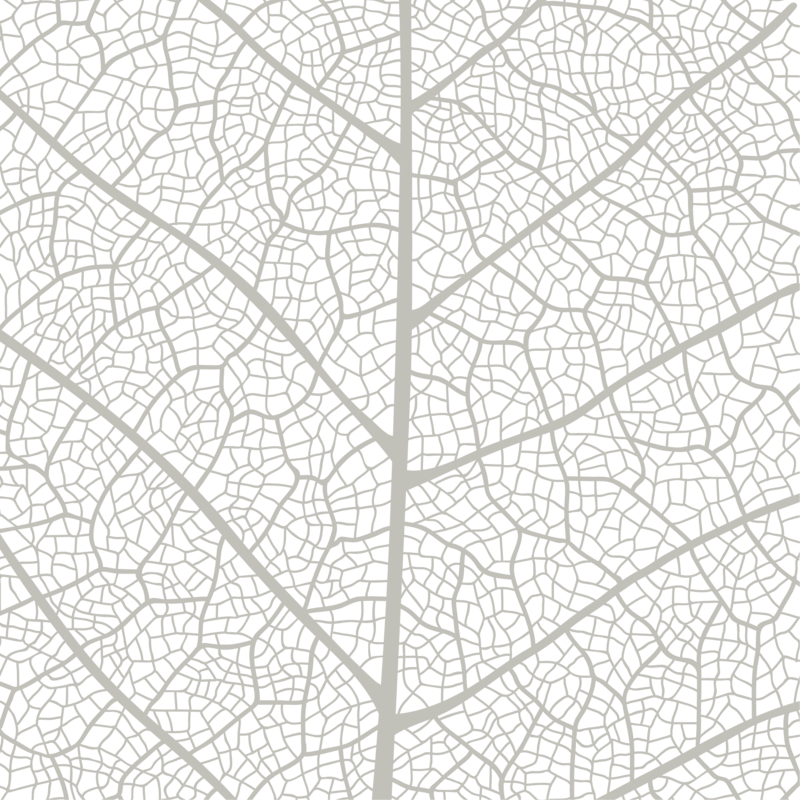
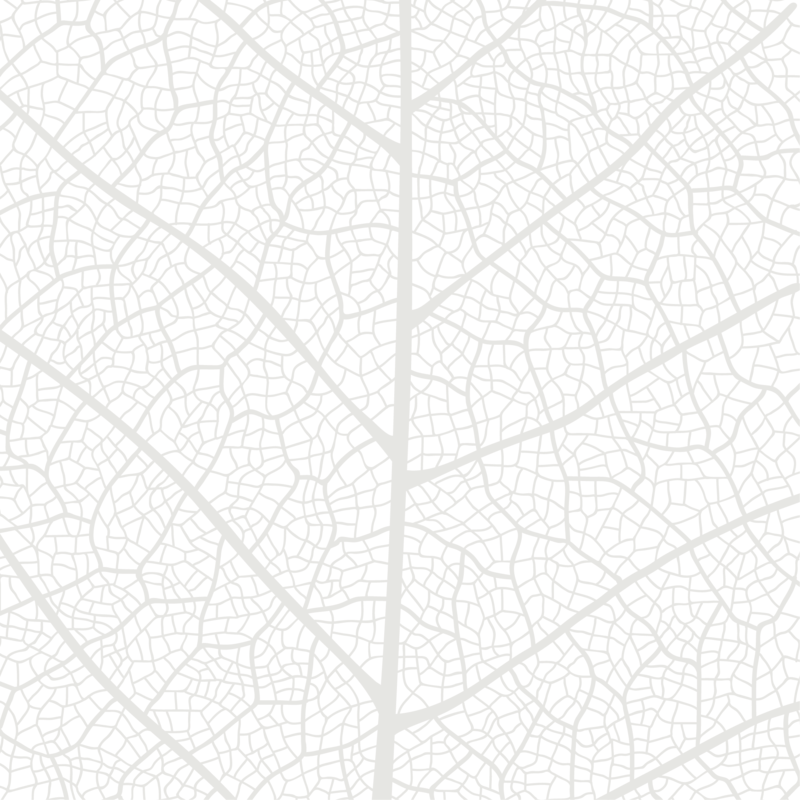
leaf opacity change, placement edits

diff --git a/src/pages/About.jsx b/src/pages/About.jsx
@@ -17,22 +17,20 @@ export default function About() {
         <div>
             {!isInfoLoading &&
                 <>
-                    {/* Projects */}
+                    {/* About page */}
                     <div className="p-3 mb-6">
                         <h2 className="text-2xl font-bold mb-2">About</h2>
 
-                        <div className="leaf p-3 mb-6">
-                            {/* inset image placeholder underneath the droplet class */}
+                        <div className="leaf p-3 mb-6 flex flex-col items-center justify-center">
+                            <div className="profile w-[600px] h-[600px]"></div>
                             <h3 className="text-2xl font-semibold mt-3">{info.first_name} {info.last_name}</h3>
                             <h4 className="text-xl mb-1">({info.pronouns})</h4>
-                        </div>
+                            
+                            {/* introduction (elevator pitch) */}
+                            <div className="droplet p-3 mt-3 mb-3">
 
-                        {/* introduction (elevator pitch) */}
-                        {/* what I do */}
-                        {/* what I work on */}
-                        {/* currently interested in */}
-                        {/* hobbies */}
-                        
+                            </div>
+                        </div>
                     </div>
                 </>
             }

diff --git a/src/App.css b/src/App.css
@@ -21,10 +21,17 @@
 }
 
 .droplet {
+  padding: 3px;
   backdrop-filter: blur(2px);
   background-image: radial-gradient( transparent 30%, rgba(102, 212, 249, 0.3));
   border-radius: 37px;
   box-shadow: 4px 4px 3px rgba(0, 0, 0, 0.4), 2px 2px 2px rgba(255, 255, 255, 0.4) inset;
+}
+
+.profile {
+  background-image: radial-gradient( transparent 30%, rgba(102, 212, 249, 0.3)), url('Portrait_Placeholder.png');
+  border-radius: 100%;
+  box-shadow: 6px 6px 3px rgba(0, 0, 0, 0.4), 4px 4px 2px rgba(255, 255, 255, 0.4) inset;
 }
 
 .logo {

diff --git a/src/components/Layout.jsx b/src/components/Layout.jsx
@@ -8,7 +8,7 @@ export default function Layout({ children }) {
     
     
     return (
-        <div className="layout min-w-2xl max-w-4xl">
+        <div className="layout min-w-2xl max-w-4xl flex flex-col">
             <header className="leaf p-3 bg-center"
             >
                 <NavBar />
